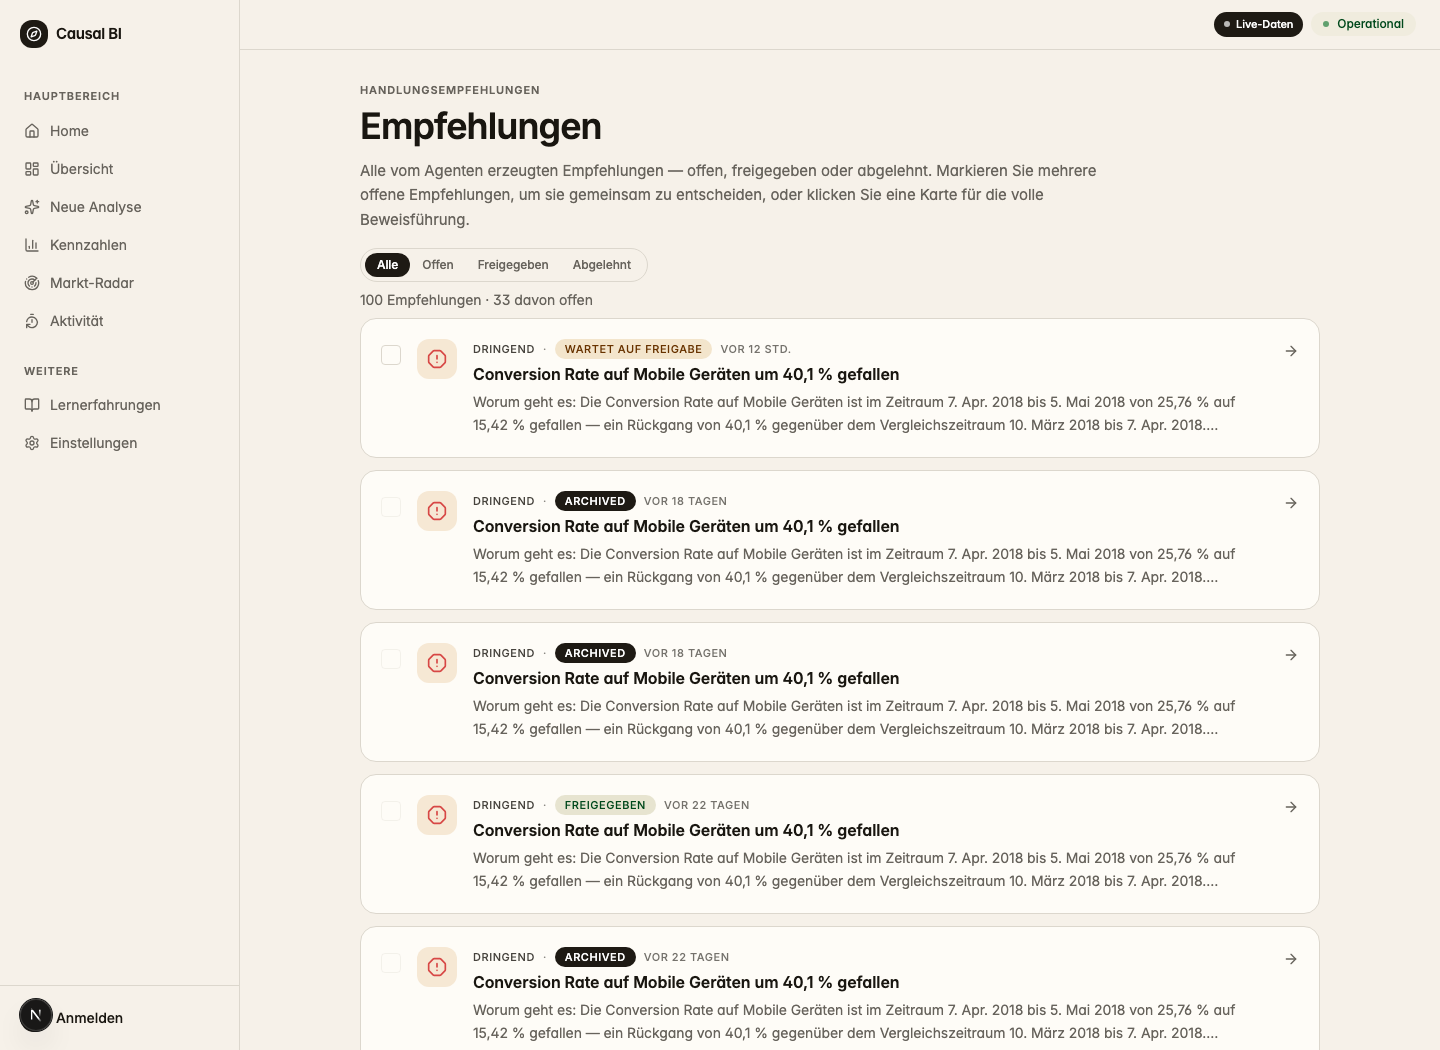
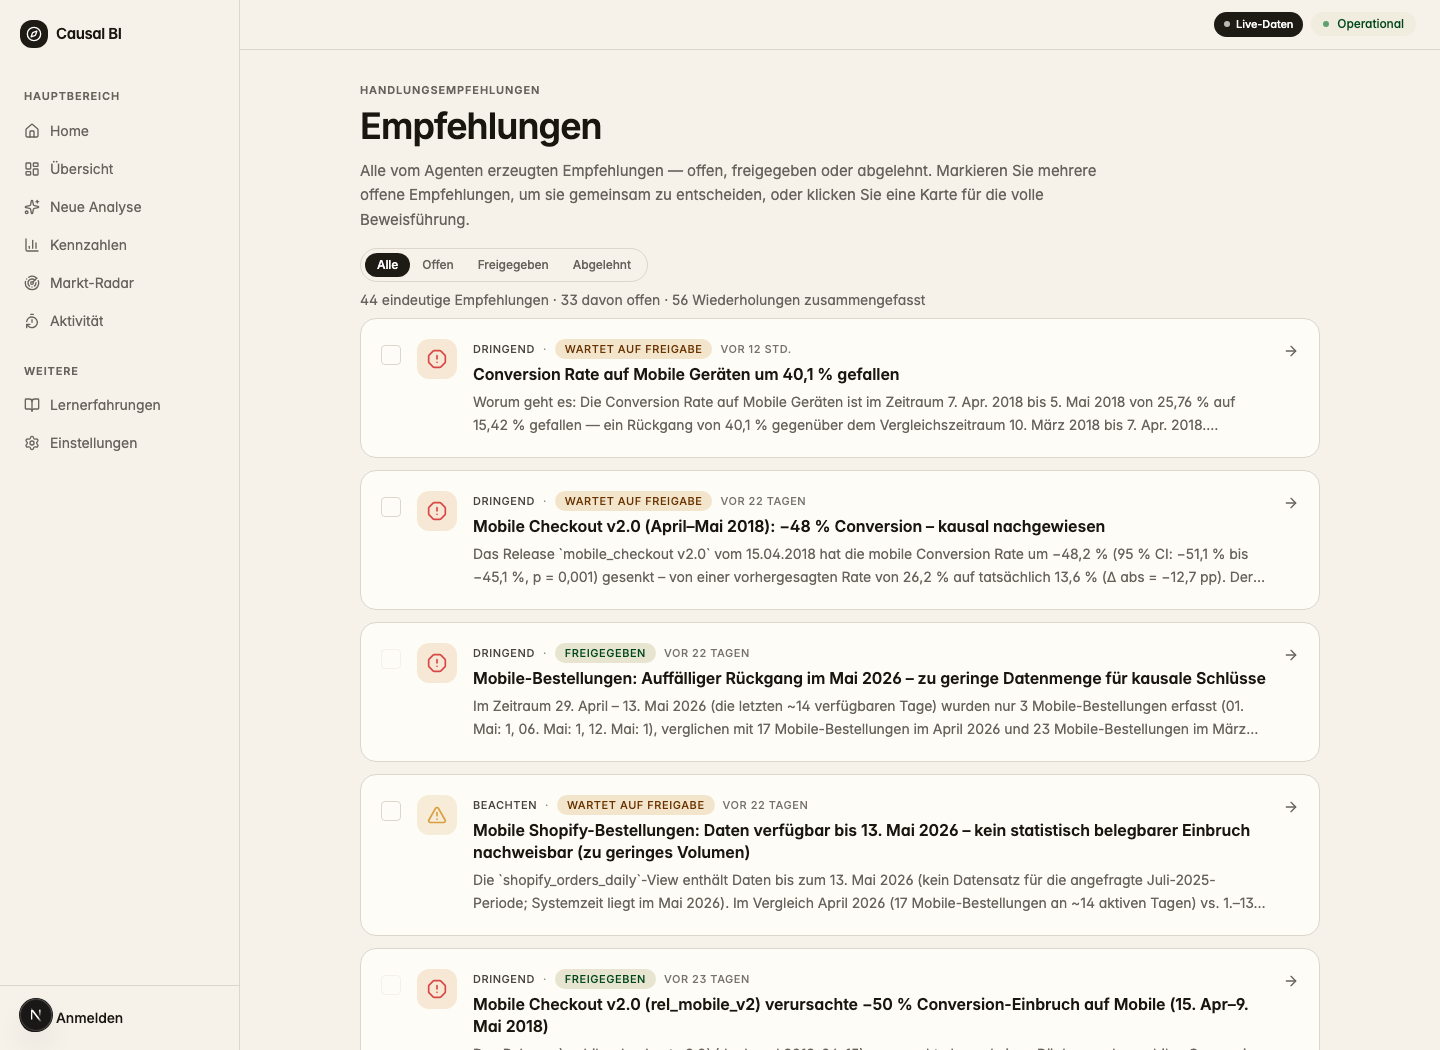
fix: deduplicate recommendation lists

diff --git a/frontend/app/page.tsx b/frontend/app/page.tsx
@@ -1,5 +1,6 @@
 "use client";
 
+import { useMemo } from "react";
 import Link from "next/link";
 import useSWR from "swr";
 import {
@@ -17,6 +18,7 @@ import { api } from "@/lib/api";
 import { useReadiness, useRecommendations, useRuns } from "@/lib/hooks";
 import { Card, ErrorMessage, Loading, MutedLink, Pill } from "@/components/ui";
 import { formatRelativeTime } from "@/lib/labels";
+import { uniqueRecommendationsByTitle } from "@/lib/recommendations";
 
 /**
  * Heuristic: prompts that look like background scans, smoke checks, or
@@ -68,6 +70,10 @@ export default function Dashboard() {
   // Hide pytest fixtures from the dashboard so managers only see real work.
   // Power users can still drop the filter on /runs (which keeps everything).
   const pending = useRecommendations("pending", ["test"]);
+  const uniquePending = useMemo(
+    () => uniqueRecommendationsByTitle(pending.data ?? []),
+    [pending.data],
+  );
   const runs = useRuns(20, ["test"]);
   // Also hide the automatic background scans + obvious test-shaped
   // prompts ("budget test", "noop"); they're noise on an exec view.
@@ -126,11 +132,11 @@ export default function Dashboard() {
 
       {/* Situation-at-a-glance — auto-summary of what the manager should know. */}
       <SituationBanner
-        pendingCount={pending.data?.length ?? 0}
+        pendingCount={uniquePending.length}
         topRisk={
-          pending.data?.find((r) => r.risk_level === "high")?.risk_level ??
-          pending.data?.find((r) => r.risk_level === "medium")?.risk_level ??
-          (pending.data && pending.data.length > 0 ? "low" : null)
+          uniquePending.find((r) => r.risk_level === "high")?.risk_level ??
+          uniquePending.find((r) => r.risk_level === "medium")?.risk_level ??
+          (uniquePending.length > 0 ? "low" : null)
         }
         loading={pending.isLoading}
       />
@@ -140,13 +146,13 @@ export default function Dashboard() {
         <div className="mb-4 flex items-baseline justify-between gap-2">
           <h2 className="text-lg font-semibold tracking-tight">
             Empfehlungen zur Freigabe
-            {pending.data && pending.data.length > 0 ? (
+            {uniquePending.length > 0 ? (
               <span className="ml-2 text-sm font-normal text-[var(--color-muted)]">
-                · {pending.data.length} offen
+                · {uniquePending.length} offen
               </span>
             ) : null}
           </h2>
-          {pending.data && pending.data.length > 0 ? (
+          {uniquePending.length > 0 ? (
             <MutedLink href="/recommendations">Alle anzeigen →</MutedLink>
           ) : null}
         </div>
@@ -154,7 +160,7 @@ export default function Dashboard() {
           <ErrorMessage error={pending.error} />
         ) : pending.isLoading ? (
           <Loading />
-        ) : !pending.data || pending.data.length === 0 ? (
+        ) : !pending.data || uniquePending.length === 0 ? (
           <Card className="p-6 flex items-start gap-3 border-dashed">
             <CheckCircle2 className="size-5 text-[var(--color-success)] shrink-0 mt-0.5" />
             <div>
@@ -167,7 +173,7 @@ export default function Dashboard() {
           </Card>
         ) : (
           <div className="grid grid-cols-1 md:grid-cols-2 gap-3">
-            {pending.data.slice(0, 6).map((r) => (
+            {uniquePending.slice(0, 6).map((r) => (
               <RecommendationMemo key={r.rec_id} rec={r} />
             ))}
           </div>
@@ -492,4 +498,3 @@ function SystemDot({
     </span>
   );
 }
-

diff --git a/frontend/app/recommendations/page.tsx b/frontend/app/recommendations/page.tsx
@@ -14,6 +14,7 @@ import {
 } from "@/components/ui";
 import { PageHeader } from "@/components/page-header";
 import { formatRelativeTime, friendlyStatus, statusTone } from "@/lib/labels";
+import { uniqueRecommendationsByTitle } from "@/lib/recommendations";
 import type { Recommendation } from "@/lib/types";
 
 type StatusFilter = "all" | "pending" | "approved" | "rejected";
@@ -48,6 +49,11 @@ export default function RecommendationsIndex() {
     ["recommendations-index", filter],
     () => api.listRecommendations(filter, 100, ["test"]),
   );
+  const visibleRecommendations = useMemo(
+    () => uniqueRecommendationsByTitle(data ?? []),
+    [data],
+  );
+  const hiddenDuplicateCount = (data?.length ?? 0) - visibleRecommendations.length;
 
   // Multi-select is only meaningful for pending rows — decided ones are
   // visible but not selectable. Clear selection when filter changes.
@@ -66,8 +72,11 @@ export default function RecommendationsIndex() {
   }
 
   const selectableIds = useMemo(
-    () => (data ?? []).filter((r) => r.status === "pending").map((r) => r.rec_id),
-    [data],
+    () =>
+      visibleRecommendations
+        .filter((r) => r.status === "pending")
+        .map((r) => r.rec_id),
+    [visibleRecommendations],
   );
 
   function clearSelection() {
@@ -127,7 +136,7 @@ export default function RecommendationsIndex() {
         <ErrorMessage error={error} />
       ) : isLoading ? (
         <Loading />
-      ) : !data || data.length === 0 ? (
+      ) : !data || visibleRecommendations.length === 0 ? (
         <Card className="p-6">
           <Empty>
             Keine Empfehlungen mit diesem Filter. Sobald der Agent etwas
@@ -137,14 +146,20 @@ export default function RecommendationsIndex() {
       ) : (
         <>
           <div className="text-sm text-[var(--color-muted)] mb-[0.2cm]">
-            {data.length} {data.length === 1 ? "Empfehlung" : "Empfehlungen"}
+            {visibleRecommendations.length}{" "}
+            {visibleRecommendations.length === 1
+              ? "eindeutige Empfehlung"
+              : "eindeutige Empfehlungen"}
             {selectableIds.length > 0
               ? ` · ${selectableIds.length} davon offen`
+              : ""}
+            {hiddenDuplicateCount > 0
+              ? ` · ${hiddenDuplicateCount} Wiederholungen zusammengefasst`
               : ""}
           </div>
 
           <ul className="space-y-3">
-            {data.map((r) => (
+            {visibleRecommendations.map((r) => (
               <RecommendationRow
                 key={r.rec_id}
                 rec={r}

diff --git a/frontend/lib/recommendations.ts b/frontend/lib/recommendations.ts
@@ -1,0 +1,24 @@
+import type { Recommendation } from "./types";
+
+function normalizeTitle(title: string): string {
+  return title
+    .toLocaleLowerCase("de-CH")
+    .replace(/\s+/g, " ")
+    .trim();
+}
+
+export function uniqueRecommendationsByTitle(
+  recommendations: Recommendation[],
+): Recommendation[] {
+  const seen = new Set<string>();
+  const unique: Recommendation[] = [];
+
+  for (const recommendation of recommendations) {
+    const key = normalizeTitle(recommendation.title);
+    if (seen.has(key)) continue;
+    seen.add(key);
+    unique.push(recommendation);
+  }
+
+  return unique;
+}